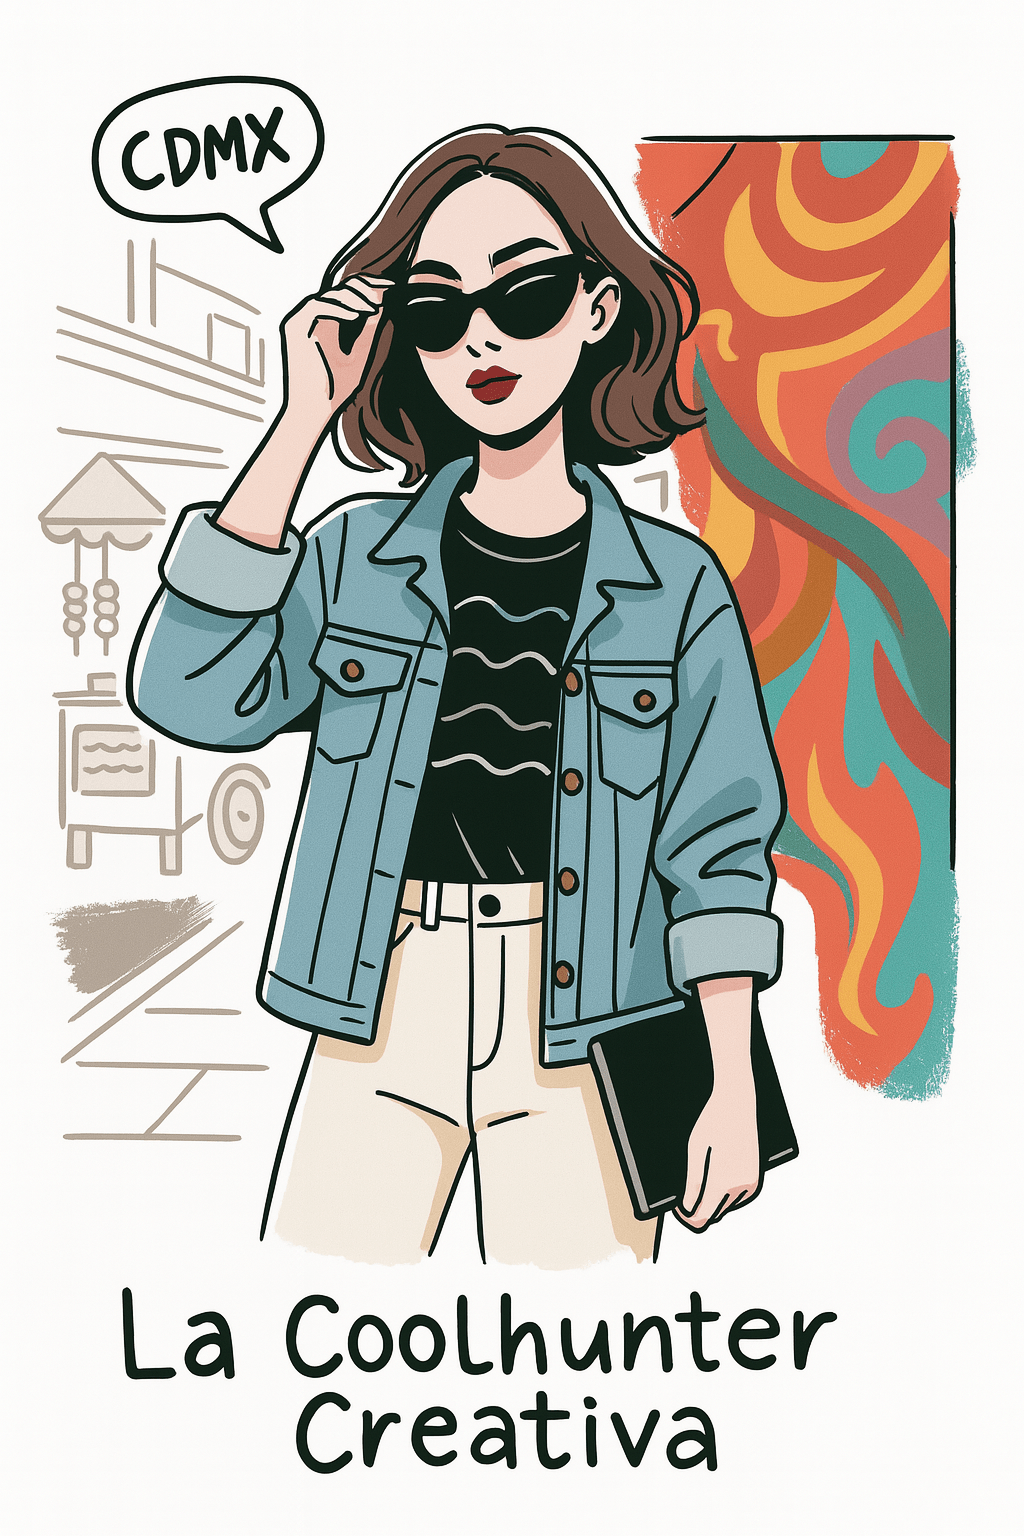
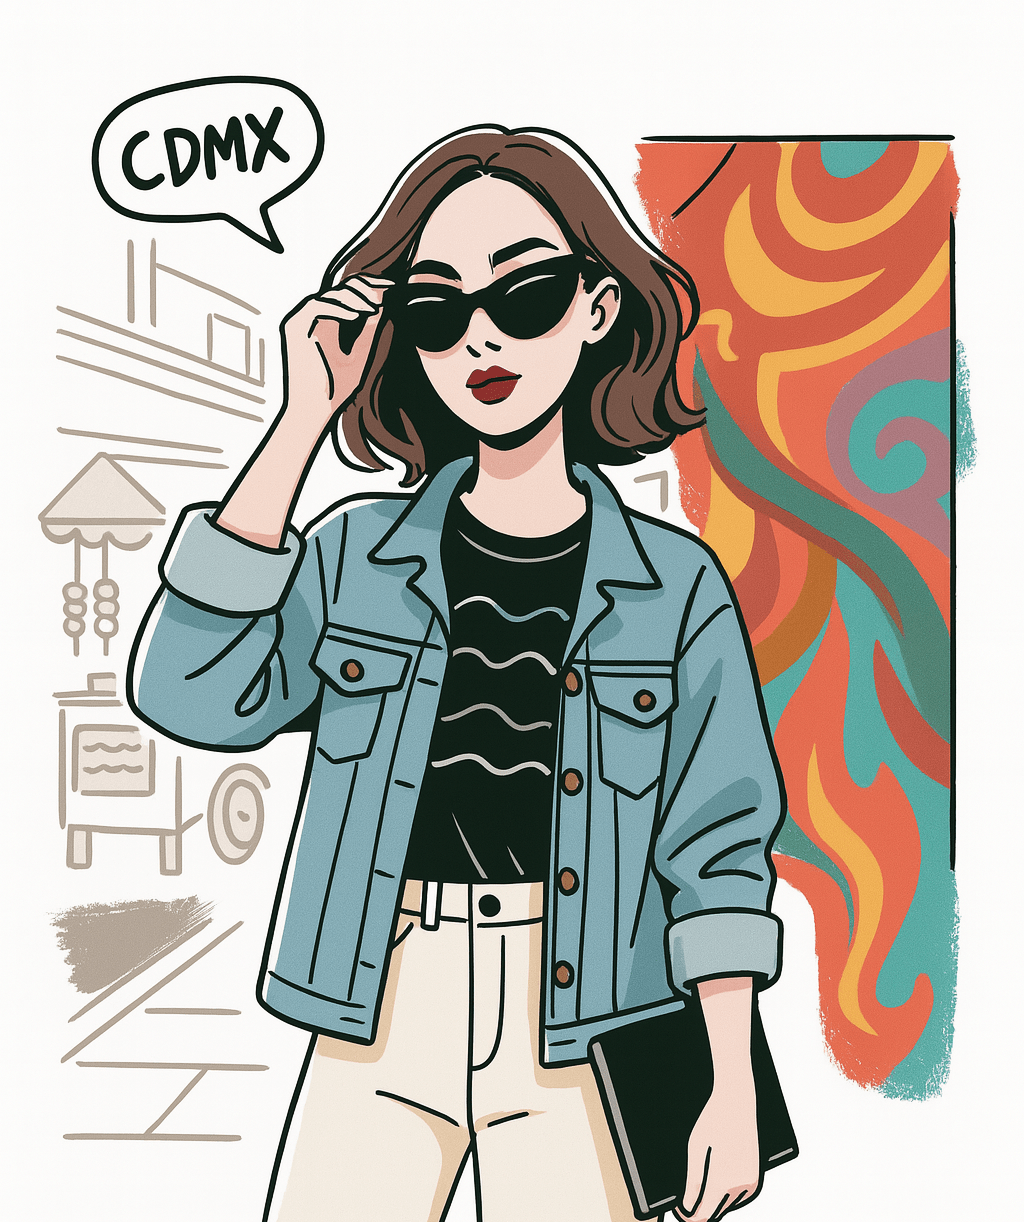
cambios imagenes y ajustes estilo

diff --git a/src/index.css b/src/index.css
@@ -7,3 +7,11 @@ body {
   background: #ffe7f3;
   font-family: 'Poppins', 'Comic Sans MS', cursive, sans-serif;
 }
+
+.h-40 {
+  height: 12rem !important;
+}
+
+.w-40 {
+  width: 12rem !important;
+}
